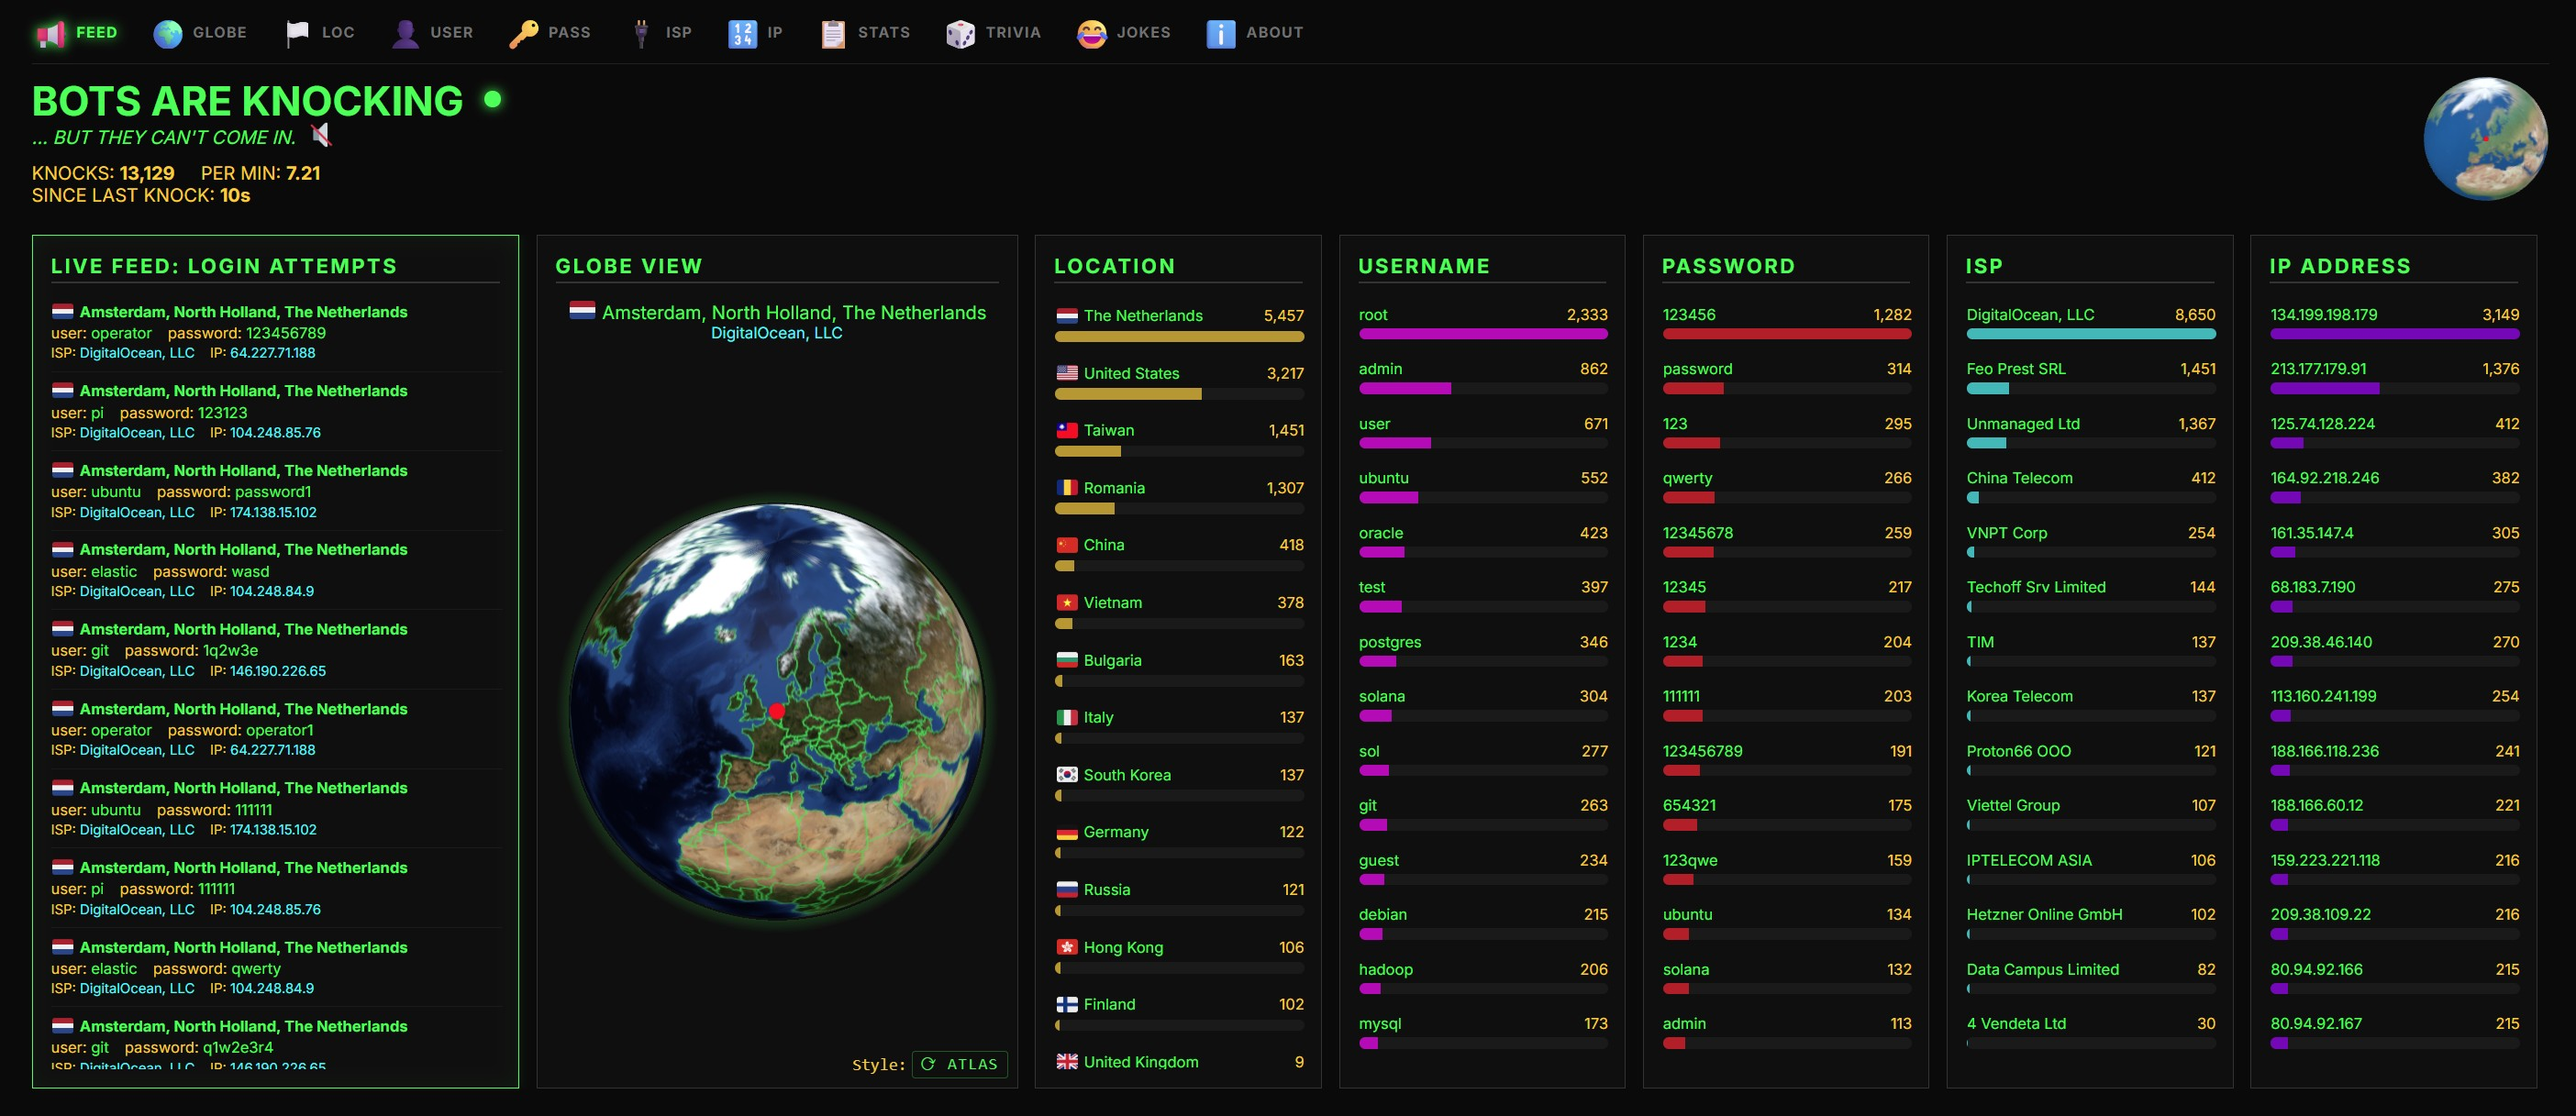
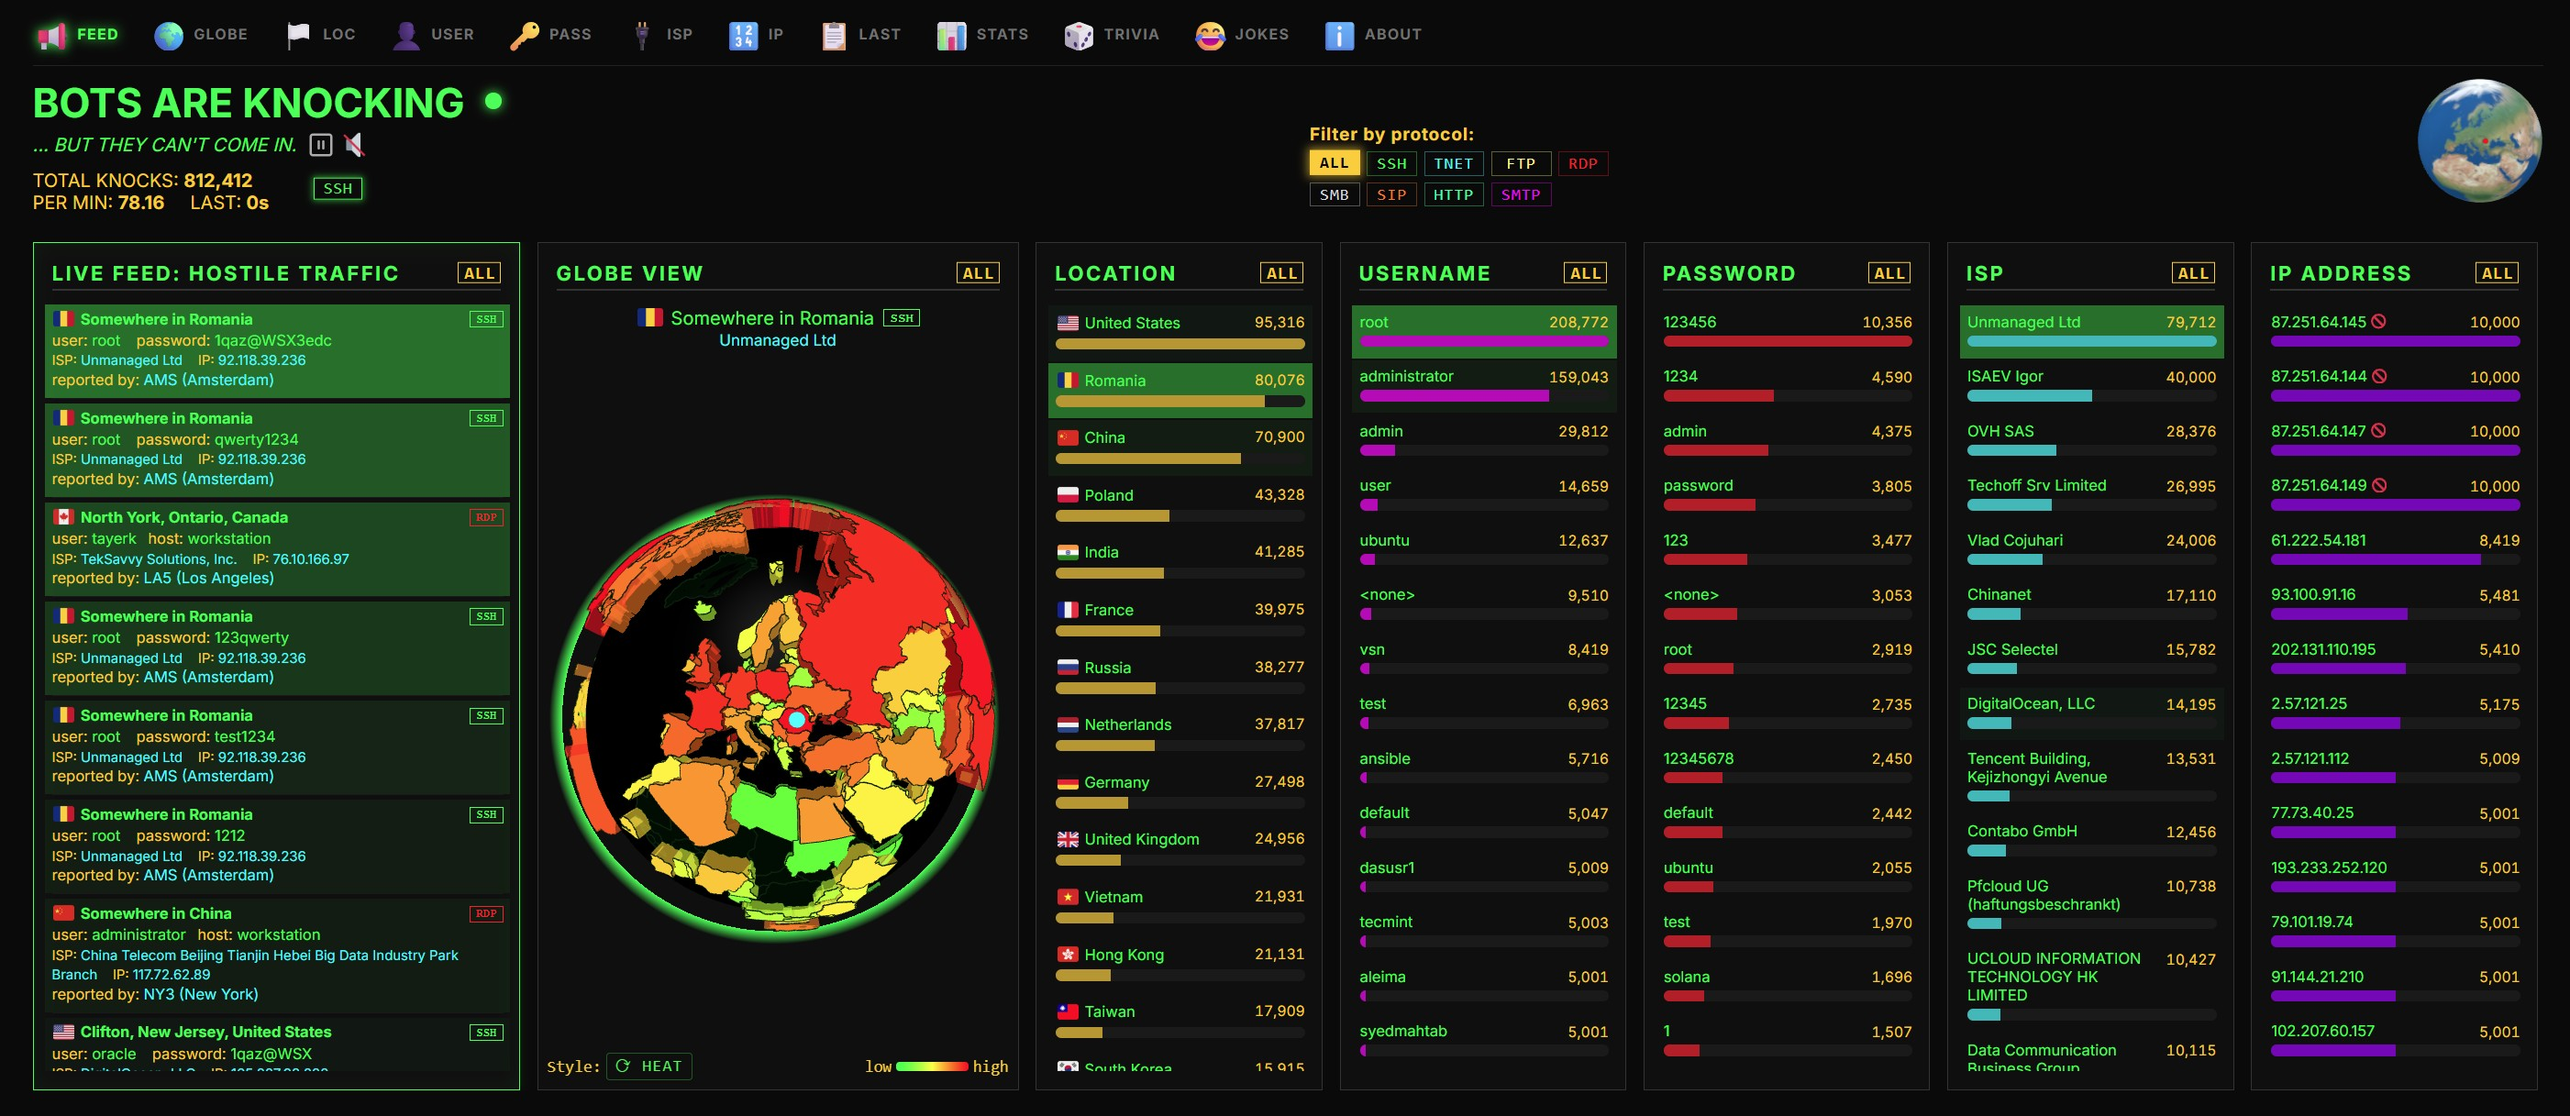
Update screenshots to v2 interface, add Stats panel, switch to lowercase filenames

diff --git a/README.md b/README.md
@@ -24,14 +24,14 @@ Check it out at https://knock-knock.net, or install it on your own server. Don't
 **Mobile (carousel panes)**
 
 <p align="center">
-  <img src="pix/Mobile_Feed.PNG" alt="Mobile feed" width="210" />
-  <img src="pix/Mobile_Globe.PNG" alt="Mobile globe" width="210" />
-  <img src="pix/Mobile_Loc.PNG" alt="Mobile locations" width="210" />
+  <img src="pix/Mobile_Feed.png" alt="Mobile feed" width="210" />
+  <img src="pix/Mobile_Globe.png" alt="Mobile globe" width="210" />
+  <img src="pix/Mobile_User.png" alt="Mobile usernames" width="210" />
 </p>
 <p align="center">
-  <img src="pix/Mobile_User.PNG" alt="Mobile usernames" width="210" />
-  <img src="pix/Mobile_Passwd.PNG" alt="Mobile passwords" width="210" />
-  <img src="pix/Mobile_Trivia.PNG" alt="Mobile trivia" width="210" />
+  <img src="pix/Mobile_Passwd.png" alt="Mobile passwords" width="210" />
+  <img src="pix/Mobile_Stats.png" alt="Mobile stats" width="210" />
+  <img src="pix/Mobile_Trivia.png" alt="Mobile trivia" width="210" />
 </p>
 
 ## Features
